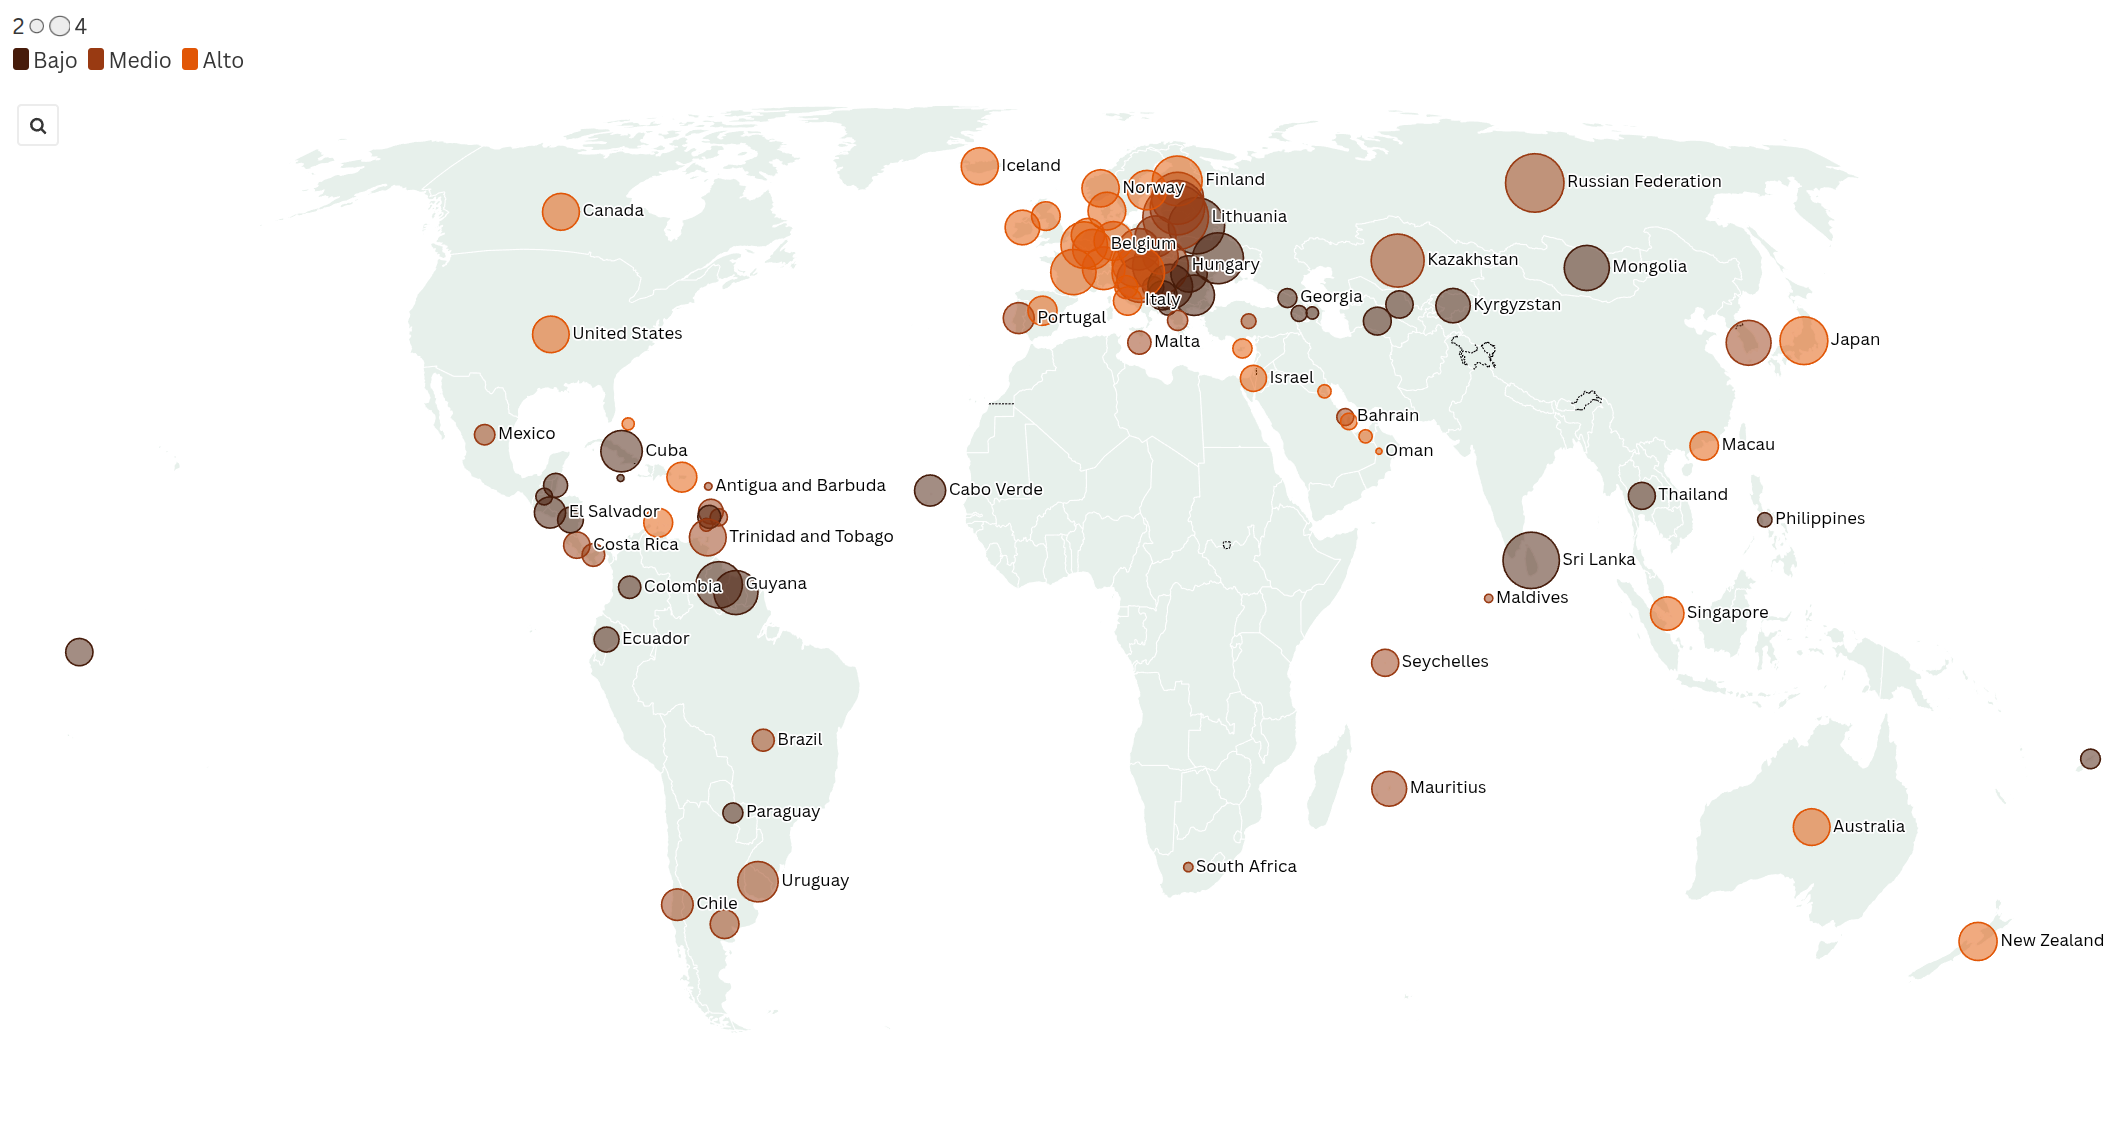
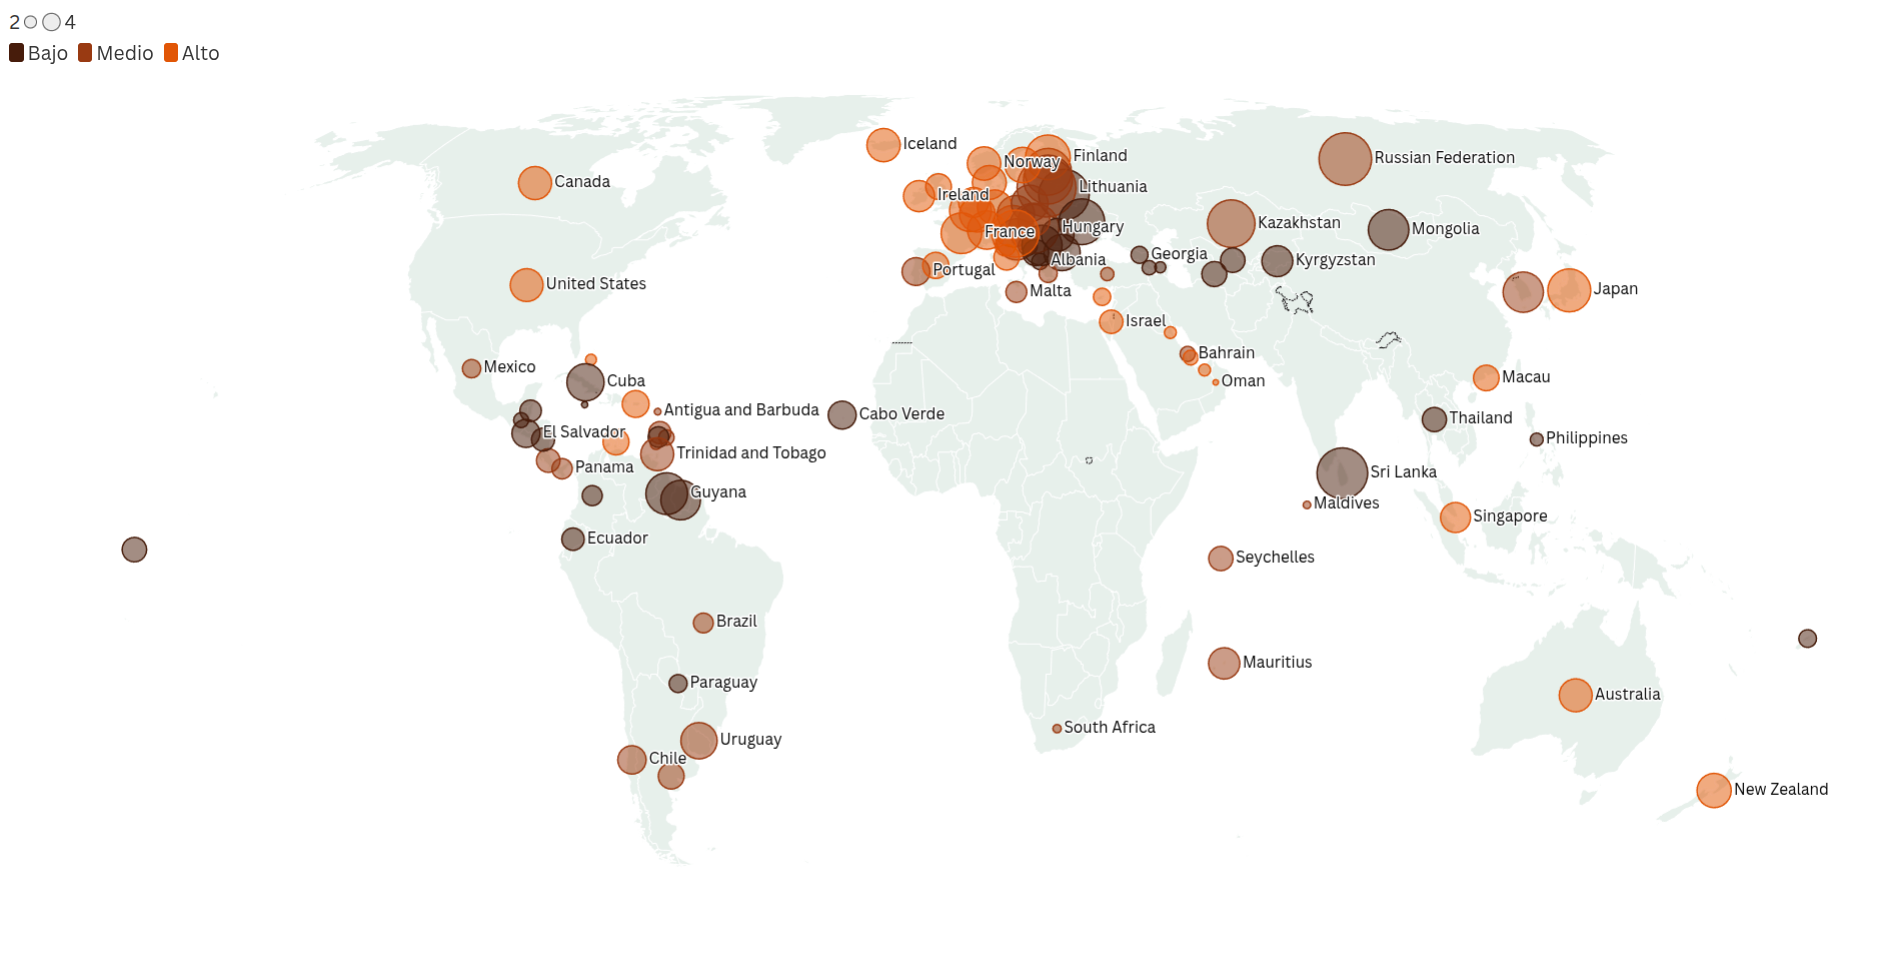
fix: mapa sin boton + arreglos menores

diff --git a/Informe_3/informe.tex b/Informe_3/informe.tex
@@ -216,7 +216,7 @@ que caracteriza a Datawrapper.
 
 \begin{itemize}
   \item \textbf{Nombre del dataset:} Suicide Rates Overview 1985 to 2016
-  \item \textbf{Fuente:} \url{https://www.kaggle.com/datasets/russellyates88/suicide-rates-overview-1985-to-2016}
+  \item \textbf{Fuente:} \href{https://www.kaggle.com/datasets/russellyates88/suicide-rates-overview-1985-to-2016}{Kaggle -- Russell Yates (2018)}
   \item \textbf{Variables relevantes:} \texttt{suicides/100k pop}, \texttt{gdp\_per\_capita (\$)}, \texttt{country}.
   \item \textbf{Cobertura:} Global (más de 100 países), período 1985--2016.
   \item \textbf{Descripción cualitativa:} El dataset cruza métricas de salud mental con indicadores macroeconómicos. Para esta visualización, los datos fueron agrupados por país para calcular la tasa estandarizada histórica y el PIB per cápita promedio.
@@ -238,6 +238,18 @@ que caracteriza a Datawrapper.
   \item \textbf{Justificación del tipo:} El mapa bi-variable permite cruzar dos dimensiones en el espacio: el tamaño de la burbuja codifica la severidad (tasa de suicidios), y el color categoriza la riqueza (PIB). Esto revela correlaciones socioeconómicas sin perder el contexto geográfico.
 \end{itemize}
 
+\subsection{Esquemática utilizada}
+
+El mapa sigue una esquemática relacional y comparativa. Geográficamente actúa de forma descriptiva al posicionar las burbujas sobre los centroides de cada país, pero analíticamente establece una narrativa de contraste al relacionar dos variables no espaciales (tamaño para la tasa de suicidios y color para la categoría de PIB). Esto guía la atención del lector no solo hacia ``dónde'' ocurre el problema, sino ``bajo qué contexto material''.
+
+\subsection{Colores utilizados y justificación}
+
+Se utilizó una codificación de color semántica para categorizar el PIB per cápita (Bajo, Medio, Alto). Esta decisión se justifica porque permite una rápida decodificación heurística al contrastar visualmente la ``alerta económica'' con la ``seguridad material'', evidenciando de inmediato de forma pre-atentiva si las grandes burbujas de suicidios caen paradójicamente en países considerados ricos, lo que refuerza el mensaje central del mapa.
+
+\subsection{Tipografía empleada}
+
+Se empleó la tipografía \textit{Canva Sans Variable} para las etiquetas, tooltips y la leyenda. Al ser una fuente sans-serif moderna y limpia, prioriza la legibilidad en pantalla para no recargar la visualización. Además, asegura una coherencia estricta con el diseño plano y directo empleado en la infografía final, evitando así que el texto compita visualmente con la alta densidad de información de las burbujas geográficas.
+
 \subsection{Mapa}
 
 \begin{figure}[H]
@@ -255,9 +267,6 @@ que caracteriza a Datawrapper.
   \item La distribución geográfica refuerza que la mortalidad autoinfligida es un fenómeno multifactorial fuertemente asociado a sociedades industrializadas o en transición rápida, desmitificando la carencia de ingresos como su conductor principal absoluto.
 \end{itemize}
 
-\section{Conclusiones generales}
-
-En conjunto, las visualizaciones desarrolladas demuestran que la mortalidad autoinfligida es un fenómeno multifactorial que desafía la narrativa tradicional del subdesarrollo económico. Mientras que el mapa de coropletas expone una concentración crítica de altas tasas de suicidio en Europa del Este y Asia Central, el mapa de símbolos proporcionales añade una capa analítica al revelar que un PIB per cápita elevado no actúa como un escudo protector definitivo frente a crisis de salud mental. Por el contrario, la consolidación de clústeres geográficos en regiones como América Latina, donde prevalecen menores tasas de suicidio a pesar de una mayor adversidad material, subraya el peso fundamental de las estructuras socioculturales de contención. Esta dicotomía geopolítica cierra el análisis espacial de la presente entrega y deja abierta una interrogante clave para una futura investigación: ¿cuáles son los factores cualitativos, psicológicos y comunitarios específicos que logran proteger la vida humana en sociedades en vías de desarrollo y que parecen debilitarse en las naciones más prósperas?
 
 \section{Repositorio de GitHub}
 